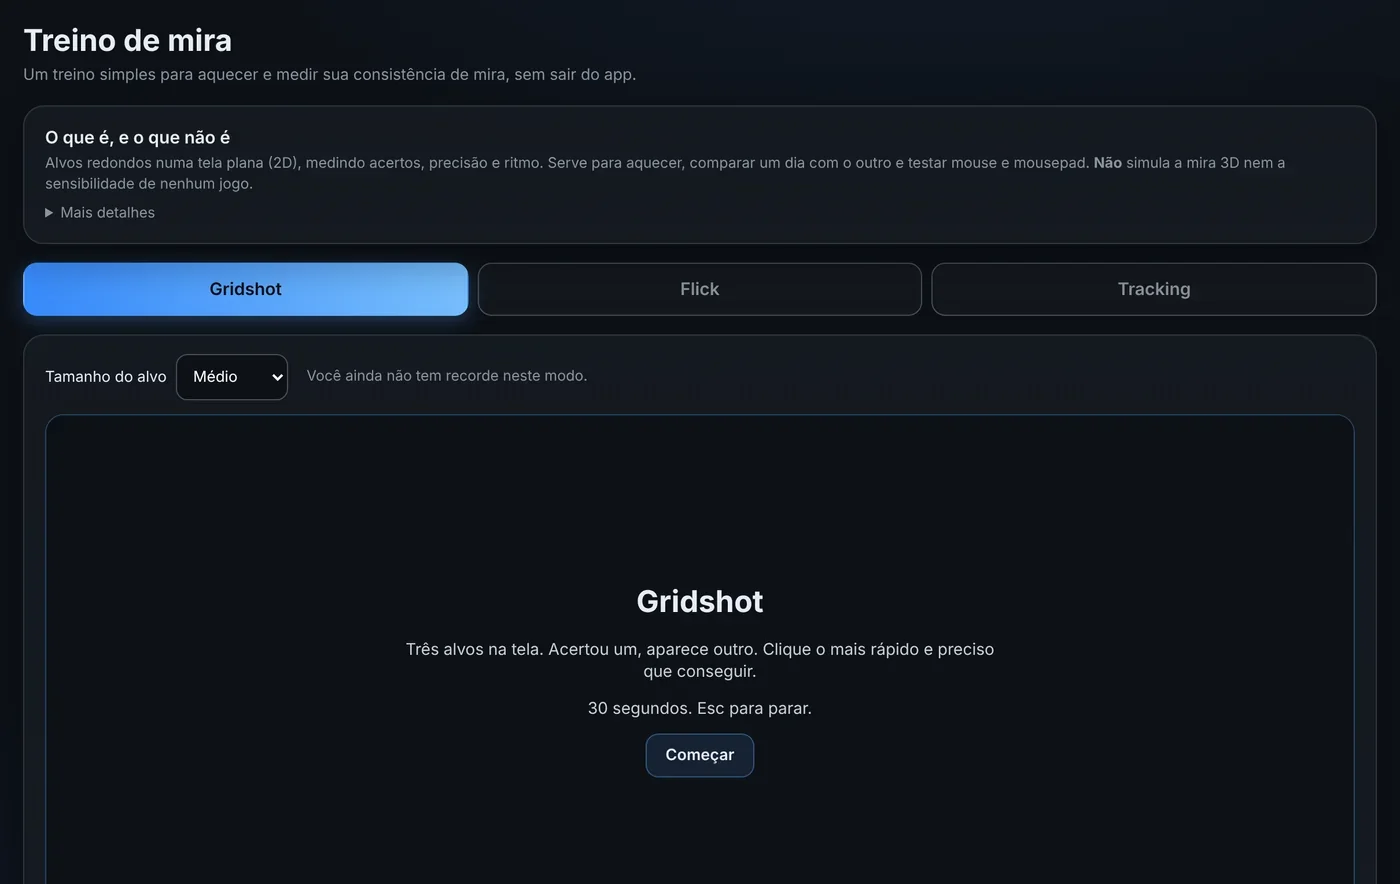
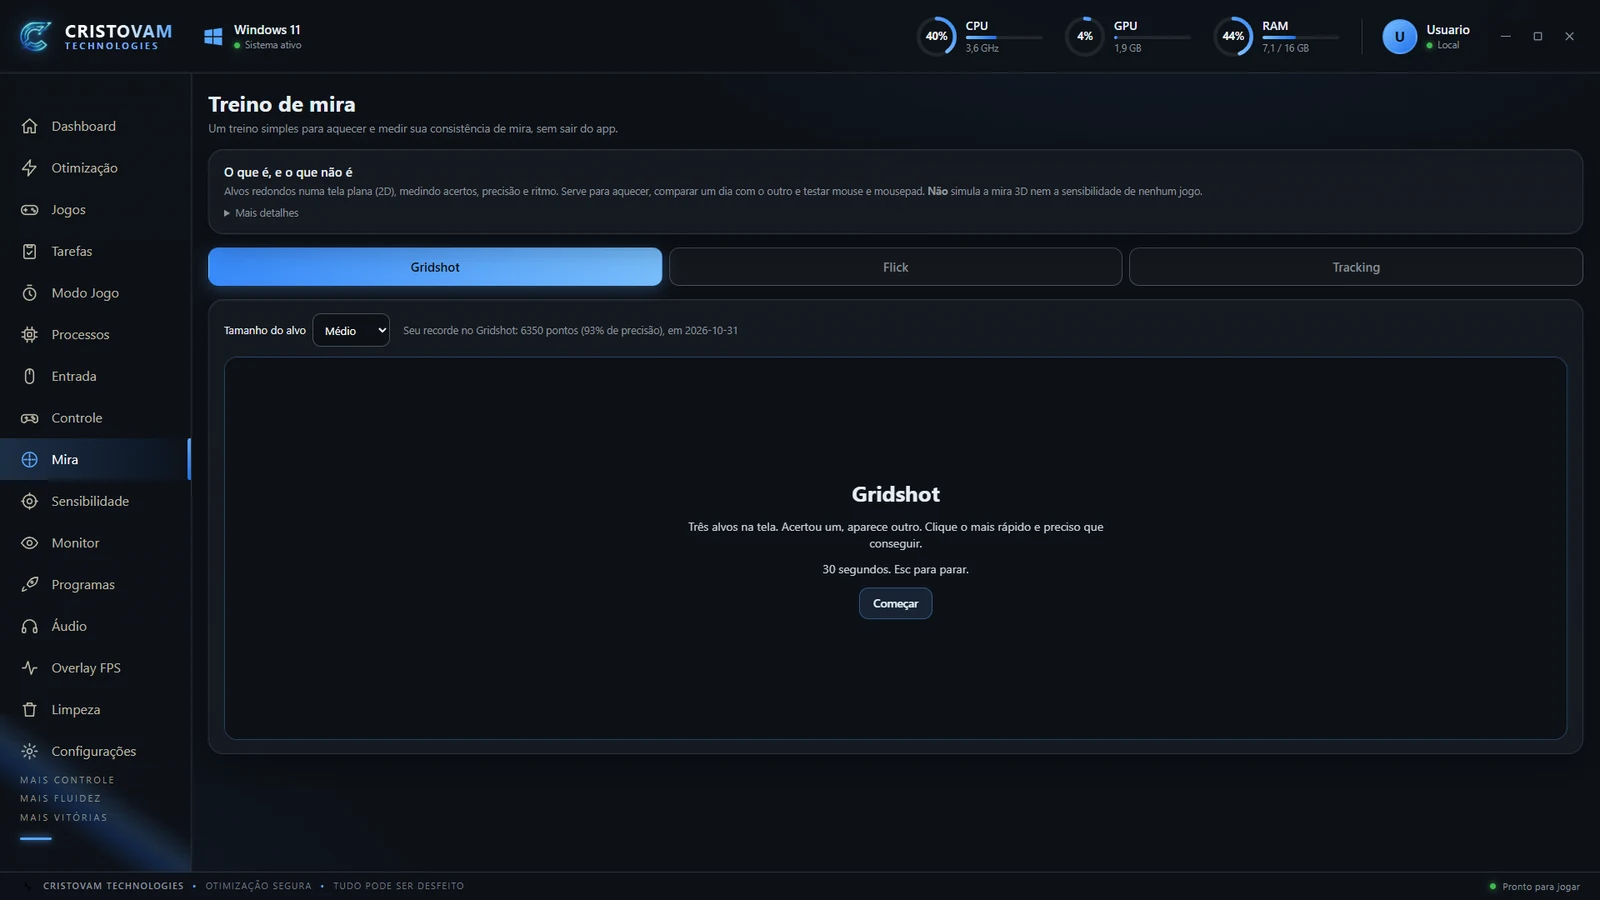
Site: troca o print do treino de mira por uma captura real do app
Claude-Session: https://claude.ai/code/session_01A2WHJBw53TS6qfaTC128UT

diff --git a/docs/index.html b/docs/index.html
@@ -257,7 +257,7 @@ footer a:hover{color:var(--text)}
       <div class="tabs" role="tablist" aria-label="Telas do app">
         <button type="button" role="tab" aria-selected="true" aria-controls="gal-painel" data-src="img/dashboard.webp" data-h="468" data-cap="O Modo Gamer liga ou desliga de uma vez um conjunto de ajustes seguros. Ao lado, ações rápidas para memória, DNS e perfis." data-alt="Dashboard com o Modo Gamer e as ações rápidas">Dashboard</button>
         <button type="button" role="tab" aria-selected="false" aria-controls="gal-painel" data-src="img/entrada.webp" data-h="838" data-cap="Teste de entrada: cliques por segundo, acionamentos duplos de um switch com defeito, teclado e tempo de reação." data-alt="Teste de entrada do mouse">Teste de entrada</button>
-        <button type="button" role="tab" aria-selected="false" aria-controls="gal-painel" data-src="img/mira.webp" data-h="884" data-cap="Treino de mira com Gridshot, Flick e Tracking, para aquecer sem abrir o jogo." data-alt="Treino de mira, modo Gridshot">Treino de mira</button>
+        <button type="button" role="tab" aria-selected="false" aria-controls="gal-painel" data-src="img/mira.webp" data-h="788" data-cap="Treino de mira com Gridshot, Flick e Tracking, para aquecer sem abrir o jogo." data-alt="Treino de mira, modo Gridshot">Treino de mira</button>
         <button type="button" role="tab" aria-selected="false" aria-controls="gal-painel" data-src="img/monitor.webp" data-h="884" data-cap="Teste de monitor: taxa de atualização, cores sólidas para achar pixels mortos, degradê, sombras e grade." data-alt="Teste de monitor com a taxa de atualização e padrões de tela">Teste de monitor</button>
         <button type="button" role="tab" aria-selected="false" aria-controls="gal-painel" data-src="img/tarefas.webp" data-h="884" data-cap="Limpeza automática de memória e de cache DNS no intervalo que você escolher." data-alt="Tarefas, com a limpeza automática de memória e DNS">Tarefas</button>
       </div>
